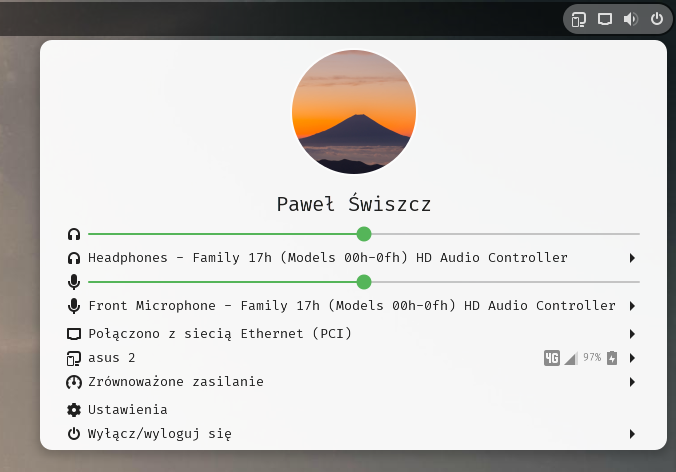
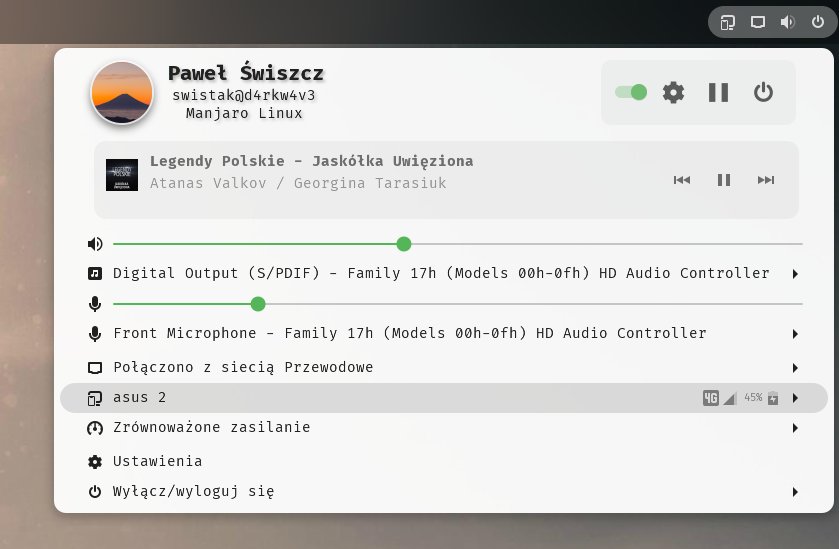
Add multimedia box, hover buttons

diff --git a/README.md b/README.md
@@ -1,17 +1,13 @@
 # Avatar-Gnome-Shell-Extension
 
+Avaliable on gnome shell extension pages <a href="https://extensions.gnome.org/extension/4782/avatar/">https://extensions.gnome.org/extension/4782/avatar/</a>
+
 Adds an avatar to the top panel. Suports Gnome 41
 
-Horizontal and vertical Orientation can be set in options
+# Screenshots
 
-It was based on https://github.com/GustavoPeredo/Big-Avatar-Gnome-Shell-Extension
+<img src="assets/2.png">
 
-
-# Screens
-
-<img src="assets/9.png">
+# Options to customize:
 
 <img src="assets/1.png">
-
-
-More screens in <a href="https://github.com/pawelswiszcz/Avatar-Gnome-Shell-Extension/tree/master/assets">assets</a> directory
